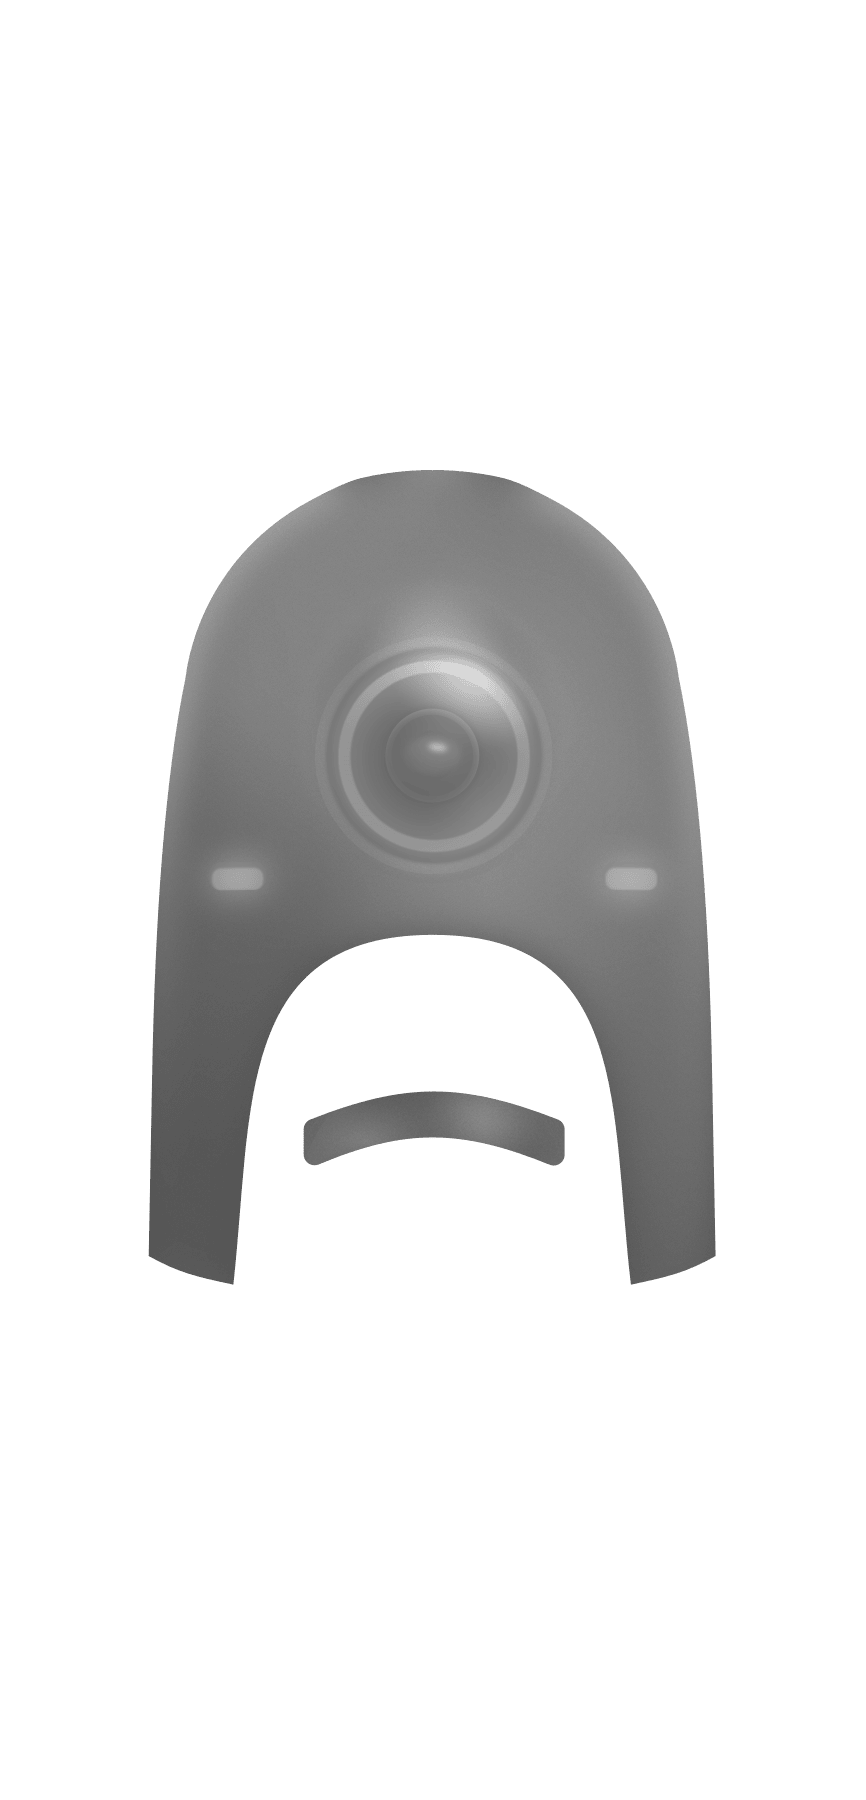
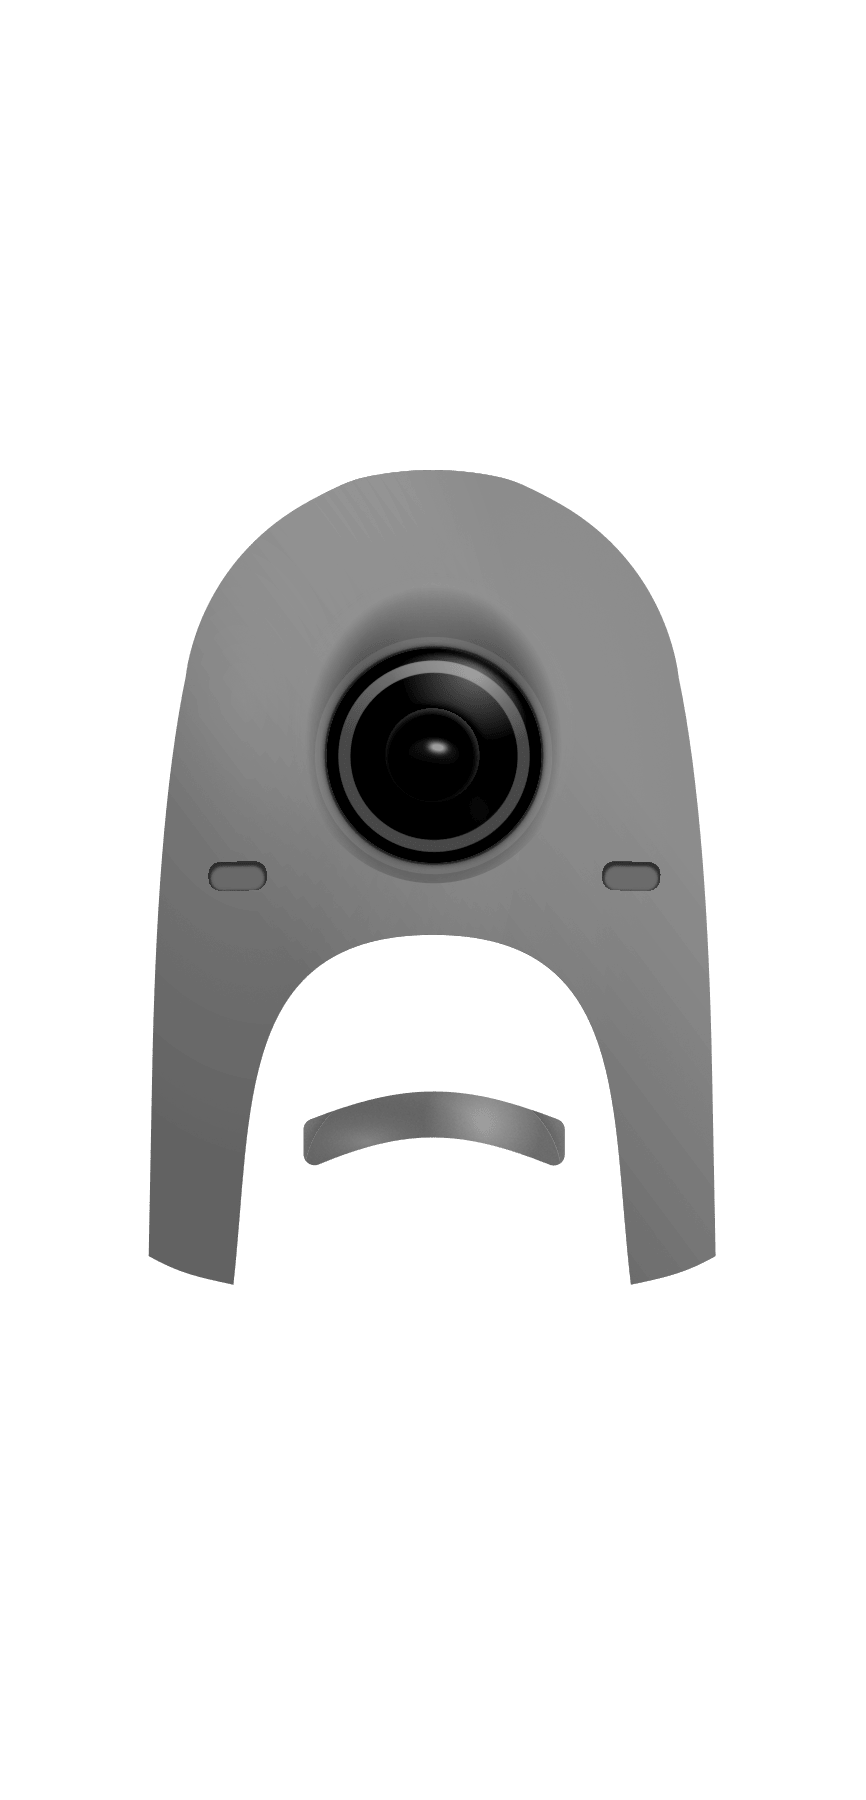
refine(app): sharpen scooter finish previews (librescoot-jluu)

diff --git a/lib/ui/widgets/color_picker_dialog.dart b/lib/ui/widgets/color_picker_dialog.dart
@@ -303,15 +303,24 @@ class _ColorPickerDialogState extends State<ColorPickerDialog> {
     final renderedColor =
         _customColor ?? (usesLayeredScooterArtwork(selectedValue) ? layeredScooterColor(selectedValue) : null);
     final matte = _customColor == null ? layeredScooterColorIsMatte(selectedValue) : _customColorMatte;
-    return ScooterSideVisual(
-      key: ValueKey(
-        renderedColor == null ? 'scooter-color-side-$selectedValue' : 'scooter-color-side-$renderedColor-$matte',
+    final transitionKey =
+        renderedColor == null ? 'scooter-color-side-$selectedValue' : 'scooter-color-side-$renderedColor-$matte';
+    return OverflowBox(
+      key: ValueKey(transitionKey),
+      maxWidth: double.infinity,
+      maxHeight: double.infinity,
+      child: SizedBox(
+        key: ValueKey('$transitionKey-artwork'),
+        width: 246 * 2110 / 1738,
+        height: 246,
+        child: ScooterSideVisual(
+          imagePath: 'images/scooter/side_$selectedValue.webp',
+          height: 246,
+          showBackdrop: false,
+          renderedColor: renderedColor,
+          renderedColorMatte: matte,
+        ),
       ),
-      imagePath: 'images/scooter/side_$selectedValue.webp',
-      height: 160,
-      showBackdrop: false,
-      renderedColor: renderedColor,
-      renderedColorMatte: matte,
     );
   }
 

diff --git a/test/ui/color_picker_dialog_test.dart b/test/ui/color_picker_dialog_test.dart
@@ -74,8 +74,11 @@ void main() {
     await tester.tap(find.byKey(const ValueKey('scooter-color-preview')));
     await tester.pump(const Duration(milliseconds: 260));
     expect(tester.getSize(backdrop), backdropSize);
-    await tester.pump(const Duration(milliseconds: 300));
+    await tester.pump(const Duration(milliseconds: 400));
     expect(find.byKey(const ValueKey('scooter-color-side-#557064-true')), findsOneWidget);
+    final sideArtwork = find.byKey(const ValueKey('scooter-color-side-#557064-true-artwork'));
+    expect(tester.getSize(sideArtwork).height, 246);
+    expect(tester.getSize(sideArtwork).width, greaterThan(backdropSize.width));
 
     await tester.tap(find.byKey(const ValueKey('scooter-color-option-6')));
     await tester.pump(const Duration(milliseconds: 160));

diff --git a/tool/build_scooter_artwork.py b/tool/build_scooter_artwork.py
@@ -11,7 +11,7 @@ import xml.etree.ElementTree as ET
 from pathlib import Path
 
 import numpy as np
-from PIL import Image, ImageFilter
+from PIL import Image
 
 SIZES = {"front": (866, 1800), "side": (2110, 1738)}
 FRONT_MASTER_SIZE = (866, 1668)
@@ -52,29 +52,25 @@ def render_svg_elements(
         return rgba(png)
 
 
-def front_master_gloss(source: Path) -> np.ndarray:
-    tree = ET.parse(source / "front_master.svg")
+def noise_free_artwork(source: Path, view: str) -> np.ndarray:
+    master = view == "front"
+    tree = ET.parse(source / ("front_master.svg" if master else "side_4.svg"))
     root = tree.getroot()
+    paint_color = "#0F0F0F" if master else "#FF635A"
     for parent in root.iter():
         for child in list(parent):
             if "url(#pattern" in child.get("fill", ""):
                 parent.remove(child)
     for element in root.iter():
-        if element.get("fill", "").upper() == "#0F0F0F":
+        if element.get("fill", "").upper() == paint_color:
             element.set("fill", "white")
     elements = [child for child in root if child.tag.rsplit("}", 1)[-1] != "defs"]
-    return pad_front_master(render_svg_elements(tree, elements, FRONT_MASTER_SIZE))
-
-
-def front_master_ring_mask(source: Path) -> np.ndarray:
-    tree = ET.parse(source / "front_master.svg")
-    ring = next(
-        element
-        for element in tree.getroot()
-        if any(child.get("stroke", "").upper() == "#868686" for child in element)
+    rendered = render_svg_elements(
+        tree,
+        elements,
+        FRONT_MASTER_SIZE if master else SIZES["side"],
     )
-    rendered = render_svg_elements(tree, [ring], FRONT_MASTER_SIZE)
-    return pad_front_master(rendered)[:, :, 3] / 255
+    return pad_front_master(rendered) if master else rendered
 
 
 def front_master_masks(source: Path) -> tuple[np.ndarray, np.ndarray]:
@@ -196,33 +192,23 @@ def shadow_layer(source: Path, view: str, destination: Path) -> np.ndarray:
 
 
 def tone_layer(source: Path, view: str, finish: str, alpha: np.ndarray) -> np.ndarray:
-    use_master_matte = view == "front" and finish == "matte" and (source / "front_master@2x.png").exists()
-    use_master_gloss = view == "front" and finish == "gloss" and (source / "front_master.svg").exists()
-    if use_master_matte:
-        image = pad_front_master(rgba(source / "front_master@2x.png"))
-    elif use_master_gloss:
-        image = front_master_gloss(source)
-    else:
-        source_id = 3 if finish == "matte" else 1
-        image = rgba(source / f"{view}_{source_id}.png")
+    texture = (
+        pad_front_master(rgba(source / "front_master@2x.png"))
+        if view == "front"
+        else rgba(source / "side_4.png")
+    )
+    clean = noise_free_artwork(source, view)
 
-    luminance = np.dot(image[:, :, :3], [0.2126, 0.7152, 0.0722])
     painted = alpha > 0.5
+    clean_luminance = np.dot(clean[:, :, :3], [0.2126, 0.7152, 0.0722])
+    clean_baseline = np.median(clean_luminance[painted])
+    value = 128 + 0.8 * (clean_luminance - clean_baseline)
     if finish == "matte":
-        radius = 18 if view == "front" else 28
-        smoothed = np.asarray(
-            Image.fromarray(np.rint(luminance).astype(np.uint8), "L").filter(
-                ImageFilter.GaussianBlur(radius)
-            ),
-            dtype=np.float32,
-        )
-        baseline = np.median(smoothed[painted])
-        value = 128 + 1.2 * (smoothed - baseline) + 0.3 * (luminance - smoothed)
-    else:
-        baseline = np.median(luminance[painted])
-        value = 128 + 0.8 * (luminance - baseline)
+        texture_luminance = np.dot(texture[:, :, :3], [0.2126, 0.7152, 0.0722])
+        texture_baseline = np.median(texture_luminance[painted])
+        value += 0.3 * (texture_luminance - texture_baseline)
 
-    output = np.empty_like(image, dtype=np.uint8)
+    output = np.empty_like(texture, dtype=np.uint8)
     output[:, :, :3] = np.rint(np.clip(value, 0, 255)[:, :, None]).astype(np.uint8)
     output[:, :, 3] = np.rint(alpha * 255).astype(np.uint8)
     return output
@@ -237,8 +223,6 @@ def build_view(source: Path, output: Path, view: str) -> None:
     if use_master:
         base = pad_front_master(rgba(source / "front_master@2x.png"))
         foreground_alpha = front_master_masks(source)[1]
-        ring_alpha = front_master_ring_mask(source)
-        base[:, :, :3] *= 1 - 0.65 * ring_alpha[:, :, None]
         base[:, :, 3] *= 1 - alpha * (1 - foreground_alpha)
     else:
         base = rgba(source / f"{view}_1.png")
